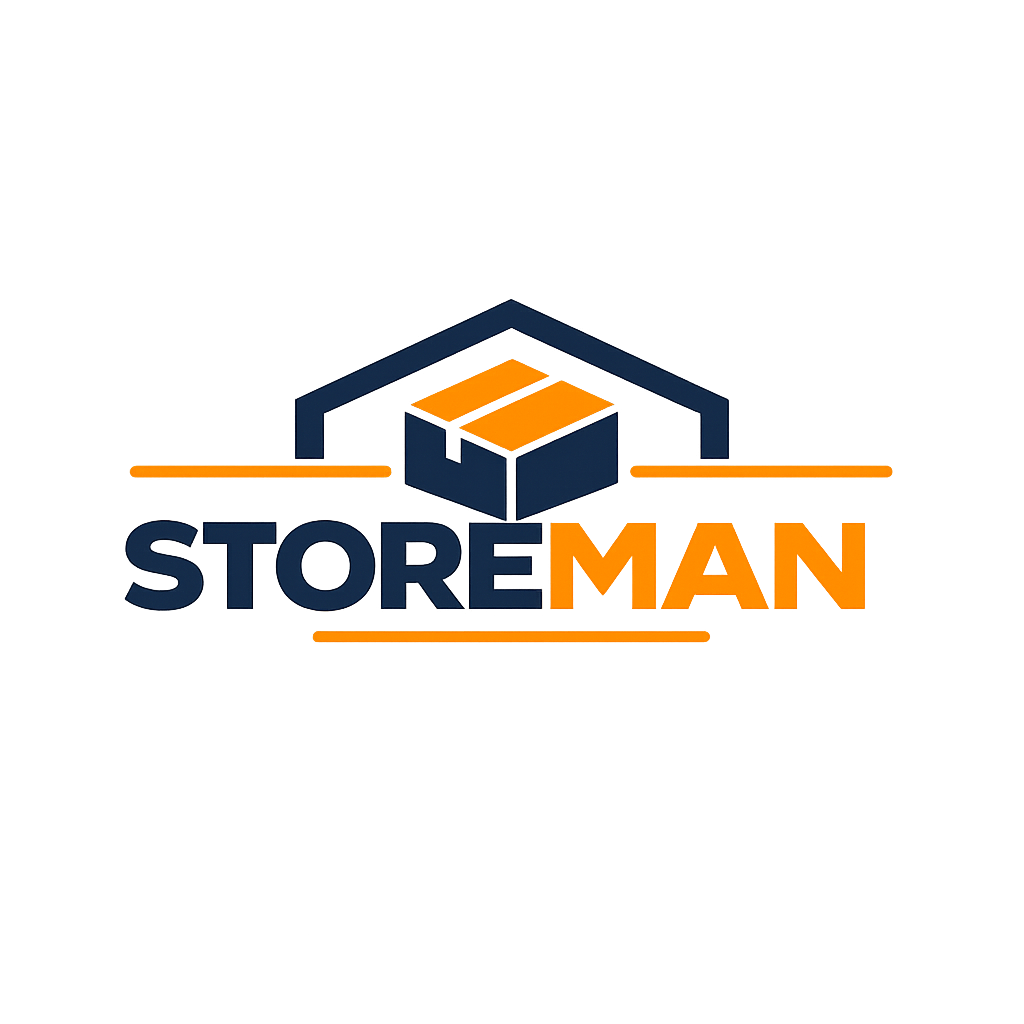
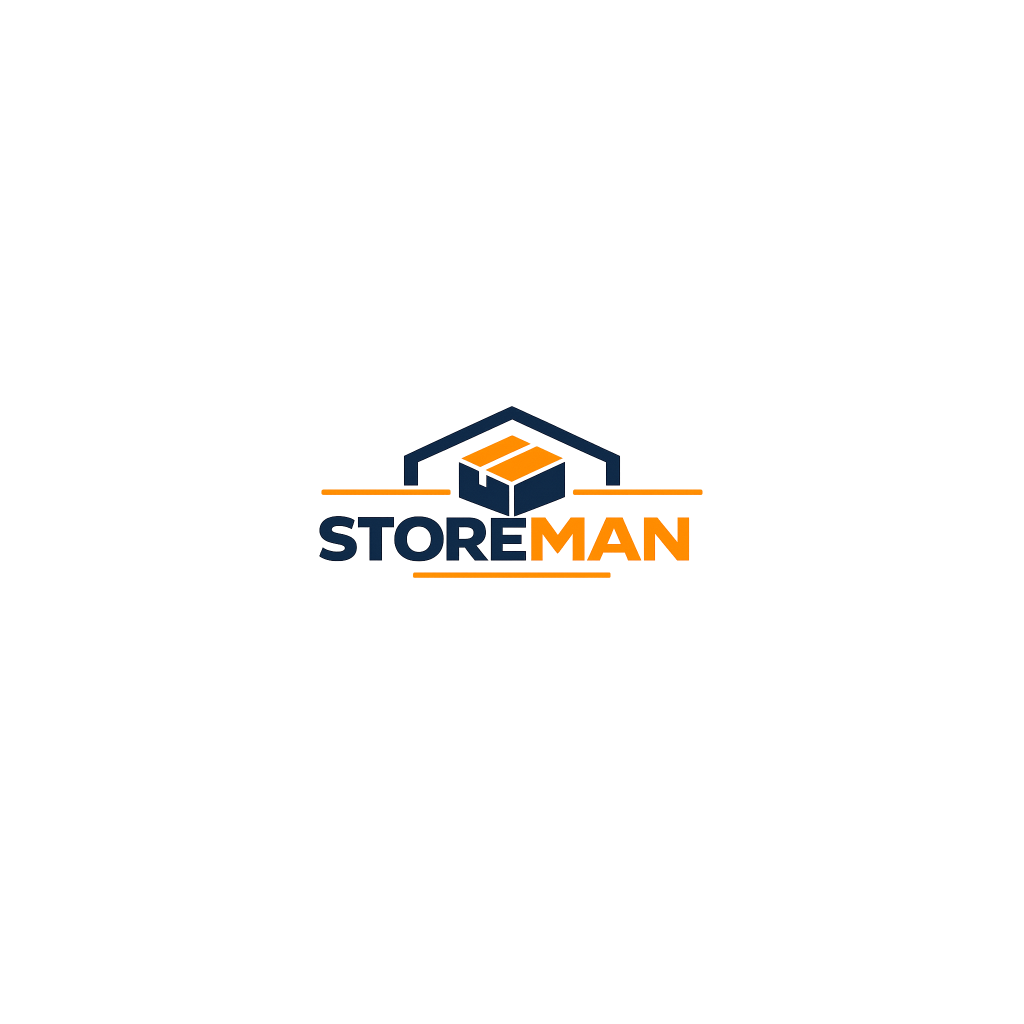
sku qty scanner

Changed region(s): [[0.125, 0.2812, 0.875, 0.625]]

diff --git a/app/(tabs)/purchase.jsx b/app/(tabs)/purchase.jsx
@@ -233,7 +233,10 @@ export default function PurchaseScreen() {
   };
 
   const updateItemQuantity = (id, qty) => {
-    if (qty <= 0) {
+    if (qty !== "" && Number(qty) < 0) {
+      return;
+    }
+    if (qty === 0) {
       setCart((prev) => prev.filter((item) => item.product_id !== id));
       return;
     }
@@ -414,7 +417,14 @@ export default function PurchaseScreen() {
       Alert.alert("Product Added", `"${fname}" has been added to the system and your cart.`);
     } catch (error) {
       console.error("Add Product Error:", error);
-      Alert.alert("Error", "Failed to add product: " + (error?.response?.data?.message || error.message || "Unknown error"));
+      let errMsg = error?.response?.data?.message || error.message || "Unknown error";
+      if (error?.response?.data?.errors) {
+        const firstError = Object.values(error.response.data.errors)[0];
+        if (firstError && firstError.length > 0) {
+          errMsg = firstError[0];
+        }
+      }
+      Alert.alert("Error", "Failed to add product: " + errMsg);
     }
   };
 
@@ -428,6 +438,13 @@ export default function PurchaseScreen() {
     if (!selectedSupplierId && !supplierName.trim()) {
       Alert.alert("Supplier Required", "Please select or enter a supplier name.");
       return;
+    }
+
+    for (const item of cart) {
+      if (!item.quantity || Number(item.quantity) <= 0) {
+        Alert.alert("Invalid Quantity", `Please enter a valid quantity for "${item.name}".`);
+        return;
+      }
     }
 
     const preparedItems = itemsWithTotals.map((item) => ({
@@ -843,10 +860,22 @@ export default function PurchaseScreen() {
                         >
                           <Text className="text-slate-800 font-bold text-sm">−</Text>
                         </TouchableOpacity>
-                        <View className="px-4 py-2 justify-center bg-white">
-                          <Text className="text-slate-800 font-black text-sm font-mono">
-                            {item.quantity}
-                          </Text>
+                        <View className="px-1 py-1 justify-center bg-white min-w-[40px]">
+                          <TextInput
+                            value={item.quantity === "" ? "" : String(item.quantity)}
+                            onChangeText={(val) => {
+                              if (val === "") {
+                                updateItemQuantity(item.product_id, "");
+                                return;
+                              }
+                              const parsed = parseInt(val, 10);
+                              if (!isNaN(parsed)) {
+                                updateItemQuantity(item.product_id, parsed);
+                              }
+                            }}
+                            keyboardType="numeric"
+                            className="text-slate-800 font-black text-sm text-center py-1 m-0 font-mono"
+                          />
                         </View>
                         <TouchableOpacity
                           onPress={() => updateItemQuantity(item.product_id, item.quantity + 1)}

diff --git a/app/(tabs)/pos.jsx b/app/(tabs)/pos.jsx
@@ -234,7 +234,10 @@ export default function POSScreen() {
   }, []);
 
   const updateItemQuantity = useCallback((id, qty) => {
-    if (qty <= 0) {
+    if (qty !== "" && Number(qty) < 0) {
+      return;
+    }
+    if (qty === 0) {
       setCart((prev) => prev.filter((item) => item.product_id !== id));
       return;
     }
@@ -374,8 +377,12 @@ export default function POSScreen() {
       }
     }
 
-    // Check stock levels
+    // Check stock levels and valid quantities
     for (const item of cart) {
+      if (!item.quantity || Number(item.quantity) <= 0) {
+        Alert.alert("Invalid Quantity", `Please enter a valid quantity for "${item.name}".`);
+        return;
+      }
       const liveProduct = products.find((p) => p.id === item.product_id);
       if (!liveProduct || liveProduct.stock < item.quantity) {
         Alert.alert(
@@ -796,9 +803,27 @@ export default function POSScreen() {
                         >
                           <Text className="text-slate-800 font-bold text-sm">−</Text>
                         </TouchableOpacity>
-                        <Text className="px-3 py-1.5 text-slate-800 font-black text-xs font-mono text-center min-w-[30px]">
-                          {item.quantity}
-                        </Text>
+                        <View className="px-1 py-1 justify-center bg-white min-w-[40px]">
+                          <TextInput
+                            value={item.quantity === "" ? "" : String(item.quantity)}
+                            onChangeText={(val) => {
+                              if (val === "") {
+                                updateItemQuantity(item.product_id, "");
+                                return;
+                              }
+                              const parsed = parseInt(val, 10);
+                              if (!isNaN(parsed)) {
+                                if (parsed > item.available_stock) {
+                                  Alert.alert("Stock Limit", `Only ${item.available_stock} available.`);
+                                  return;
+                                }
+                                updateItemQuantity(item.product_id, parsed);
+                              }
+                            }}
+                            keyboardType="numeric"
+                            className="text-slate-800 font-black text-xs text-center py-1 m-0 font-mono"
+                          />
+                        </View>
                         <TouchableOpacity
                           onPress={() => {
                             if (item.quantity >= item.available_stock) {

diff --git a/store/mockStore.js b/store/mockStore.js
@@ -37,7 +37,7 @@ export const useMockStore = create((set, get) => ({
   fetchProducts: async () => {
     set({ isLoading: true });
     try {
-      const response = await apiClient.get('/products');
+      const response = await apiClient.get(`/products?t=${Date.now()}`);
       set({
         products: response.data.products || [],
         categories: response.data.categories || [],

diff --git a/fix_icon.py b/fix_icon.py
@@ -1,0 +1,40 @@
+import sys
+import os
+
+try:
+    from PIL import Image
+except ImportError:
+    import subprocess
+    subprocess.check_call([sys.executable, "-m", "pip", "install", "Pillow"])
+    from PIL import Image
+
+def create_adaptive_icon():
+    base_dir = r"c:\Users\biswa\Downloads\FILLOSOFT\storeman mobile\store-mobile\assets"
+    icon_path = os.path.join(base_dir, "icon.png")
+    adaptive_path = os.path.join(base_dir, "adaptive-icon.png")
+    
+    print(f"Loading {icon_path}...")
+    img = Image.open(icon_path).convert("RGBA")
+    
+    # Target size is 1024x1024
+    target_size = 1024
+    # Scale image to 60% of the target size to fit well within Android's safe zone (66%)
+    scaled_size = int(target_size * 0.55)
+    
+    img.thumbnail((scaled_size, scaled_size), Image.Resampling.LANCZOS)
+    
+    # Create new transparent canvas
+    new_img = Image.new("RGBA", (target_size, target_size), (255, 255, 255, 0))
+    
+    # Paste centered
+    offset_x = (target_size - img.width) // 2
+    offset_y = (target_size - img.height) // 2
+    
+    new_img.paste(img, (offset_x, offset_y), img)
+    
+    print(f"Saving to {adaptive_path}...")
+    new_img.save(adaptive_path, "PNG")
+    print("Done!")
+
+if __name__ == "__main__":
+    create_adaptive_icon()